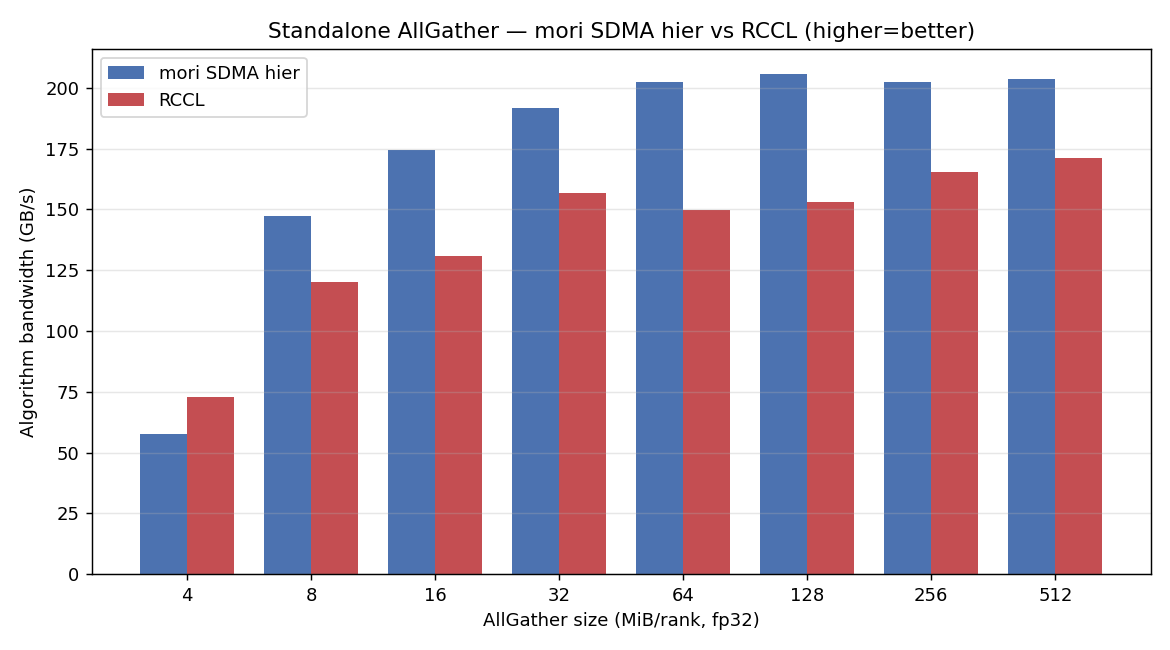
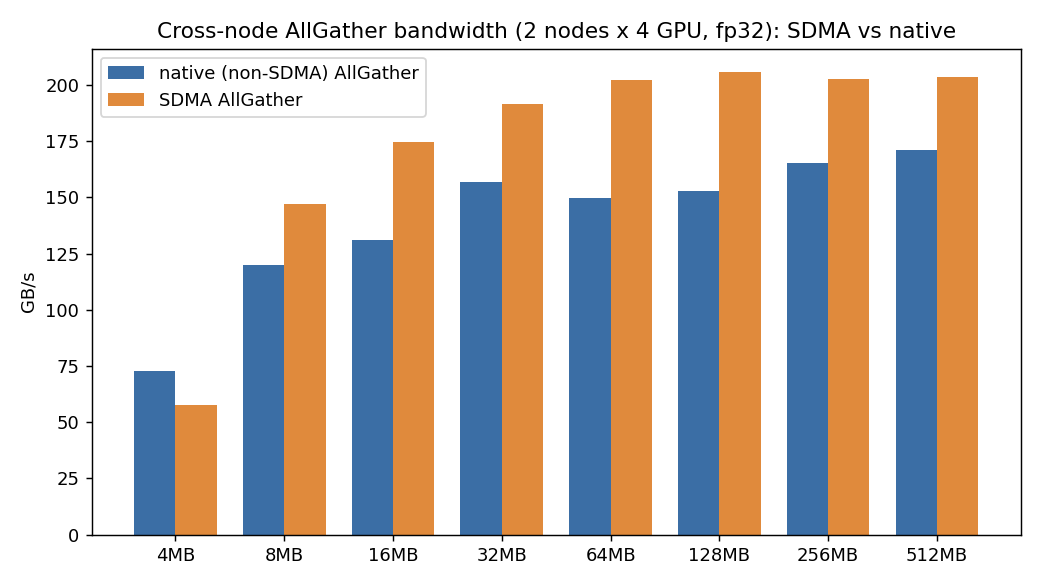
ccl: auto-detect ranks_per_node; keep flat AllgatherSdma-compatible signature
HierAllGather now auto-detects the node-local rank count (LOCAL_WORLD_SIZE, else
hostname grouping, else npes) so callers use the same constructor/call signature
as the flat AllgatherSdma with no new required argument. ranks_per_node is now
optional and keyword-only; added transit_buffer_size for signature parity.
Single node still degenerates to the pure intra-node SDMA path.

diff --git a/python/mori/ccl/hier_allgather.py b/python/mori/ccl/hier_allgather.py
@@ -41,9 +41,47 @@ bf16/fp16/fp32/int32.
 """
 
 import os
+import socket
 from typing import List, Optional, Sequence
 
 import torch
+
+
+def _auto_ranks_per_node(my_pe: int, npes: int) -> int:
+    """Detect how many ranks are co-located on this physical node so callers can
+    use the same signature as the flat ``AllgatherSdma`` (no ``ranks_per_node``).
+
+    Resolution order:
+      1. launcher-provided local world size (``LOCAL_WORLD_SIZE`` from torchrun,
+         or the MPI equivalents),
+      2. group ranks by hostname over the initialized process group,
+      3. fall back to ``npes`` (treat everything as a single node).
+
+    Always returns a positive integer that divides ``npes``.
+    """
+    for key in (
+        "LOCAL_WORLD_SIZE",
+        "OMPI_COMM_WORLD_LOCAL_SIZE",
+        "MV2_COMM_WORLD_LOCAL_SIZE",
+    ):
+        v = os.environ.get(key)
+        if v and v.isdigit():
+            g = int(v)
+            if g > 0 and npes % g == 0:
+                return g
+    try:
+        import torch.distributed as dist
+
+        if dist.is_available() and dist.is_initialized() and dist.get_world_size() == npes:
+            host = socket.gethostname()
+            hosts = [None] * npes
+            dist.all_gather_object(hosts, host)
+            g = sum(1 for h in hosts if h == host)
+            if g > 0 and npes % g == 0:
+                return g
+    except Exception:
+        pass
+    return npes
 
 # NOTE: ``AllgatherSdma`` (and hence the compiled C++ .so) is imported lazily
 # inside ``HierAllGather.__init__`` so that the pure-Python executable specs
@@ -184,8 +222,14 @@ class HierAllGather:
     my_pe, npes:
         Global rank and world size (``npes == num_nodes * ranks_per_node``).
     ranks_per_node:
-        Number of ranks (GPUs) co-located on one node, i.e. ``G``. Defaults
-        to ``npes`` (single node).
+        Number of ranks (GPUs) co-located on one node, i.e. ``G``. Optional
+        and keyword-only: when omitted it is auto-detected (``LOCAL_WORLD_SIZE``
+        from the launcher, else grouping ranks by hostname, else ``npes`` for a
+        single node), so callers can use the same signature as the flat
+        ``AllgatherSdma``.
+    transit_buffer_size:
+        Optional single combined transit size (flat ``AllgatherSdma``
+        compatibility); split into input/output when those are not given.
     input_buffer_size, output_buffer_size:
         Per-rank input byte capacity and total output byte capacity to
         pre-allocate inside the SDMA transit buffers. Sized for the largest
@@ -199,10 +243,12 @@ class HierAllGather:
         self,
         my_pe: int,
         npes: int,
-        ranks_per_node: Optional[int] = None,
         input_buffer_size: Optional[int] = None,
         output_buffer_size: Optional[int] = None,
+        transit_buffer_size: Optional[int] = None,
         copy_output_to_user: bool = True,
+        *,
+        ranks_per_node: Optional[int] = None,
         inter_num_qp: Optional[int] = None,
         leader_only: Optional[bool] = None,
         gather_in_place: Optional[bool] = None,
@@ -750,8 +796,19 @@ class HierAllGather:
                     "result comes from the SDMA broadcast, not the ring buffer)"
                 )
             self.gather_in_place = True
+        # Interface compatibility with the flat AllgatherSdma: accept a single
+        # combined transit size and split it into input/output when the caller
+        # did not size them explicitly.
+        if transit_buffer_size is not None:
+            if input_buffer_size is None:
+                input_buffer_size = transit_buffer_size
+            if output_buffer_size is None:
+                output_buffer_size = transit_buffer_size * npes
+        # Topology is auto-detected so callers use the same signature as the
+        # flat AllgatherSdma (no ranks_per_node needed). Single node -> the
+        # operation degenerates to a pure intra-node SDMA AllGather.
         if ranks_per_node is None:
-            ranks_per_node = npes
+            ranks_per_node = _auto_ranks_per_node(my_pe, npes)
         if ranks_per_node <= 0 or npes % ranks_per_node != 0:
             raise ValueError(
                 f"npes ({npes}) must be a positive multiple of ranks_per_node "

diff --git a/README_HIER_ALLGATHER.md b/README_HIER_ALLGATHER.md
@@ -1,25 +1,27 @@
-# Hierarchical cross-node AllGather (intra-node SDMA + inter-node RDMA)
+# ccl: hierarchical cross-node AllGather (intra-node SDMA + inter-node RDMA)
 
 ## Summary
 
-This change adds a **hierarchical AllGather** to MORI-CCL that keeps intra-node
-traffic on the GPU **SDMA copy engines** (XGMI) and moves inter-node traffic
-over **RDMA** (the NIC), exposed as `mori.ccl.HierAllGather` with an
-`all_gather_into_tensor`-compatible signature.
+Adds a hierarchical AllGather to MORI-CCL (`mori.ccl.HierAllGather`, an
+`all_gather_into_tensor`-compatible collective) that keeps intra-node traffic on
+the GPU **SDMA copy engines** (XGMI) and moves inter-node traffic over **RDMA**
+(NIC).
 
-The motivation is **compute/communication overlap (通算并行)**: because the
-collective runs on the dedicated SDMA copy engines instead of the compute units,
-an AllGather issued concurrently with a GEMM does **not** steal CUs from the
-GEMM. The result is parity with RCCL for a standalone AllGather, and a strict win
-when overlapped with compute.
+Motivation is **compute/communication overlap (通算并行)**: the collective runs
+on the dedicated SDMA copy engines instead of the compute units, so an AllGather
+issued concurrently with a GEMM does not steal CUs from the GEMM — parity with
+the native (non-SDMA) path standalone, and a strict win when overlapped with
+compute.
+
+## Design
 
 - Intra-node phase: SDMA sub-group gather over XGMI (no CU usage, no NIC).
 - Inter-node phase: RDMA ring exchange of node-blocks over the NIC.
-- A fused `ring || local-gather` kernel runs the inter-node RDMA ring and the
-  ring-independent local node-block SDMA gather concurrently in a single grid,
-  with stream-ordered fences and a direct-to-output path (no staging copy).
+- Fused `ring || local-gather` kernel: the inter-node RDMA ring and the
+  ring-independent local node-block SDMA gather run concurrently in one grid,
+  stream-ordered, direct-to-output (no staging copy).
 - Correctness: **bit-exact** vs `torch.distributed.all_gather_into_tensor`
-  (zero tolerance) for `{bf16, fp16, fp32, int32}` across all tested sizes.
+  (zero tolerance) for `{bf16, fp16, fp32, int32}`, all tested sizes.
 
 ## API
 
@@ -35,18 +37,12 @@ ag = HierAllGather(
 ag(input_tensor, output_tensor, numel, stream)   # intra=SDMA, inter=RDMA
 ```
 
-## Results
+## Results (2 nodes × 4 GPUs = 8 ranks, MI355X, fp32)
 
-Measured on **2 nodes × 4 GPUs = 8 ranks** (AMD Instinct MI355X / gfx950,
-intra-node XGMI, inter-node RDMA NIC), fp32, ≥3 timed reps (min), algorithm
-bandwidth = total output bytes / time. RCCL baseline is PyTorch
-`torch.distributed.all_gather_into_tensor` on the NCCL/RCCL backend, measured
-back-to-back in the same process with the same inputs and timing.
+**Standalone AllGather — SDMA ≥ native:**
 
-### 1. Standalone AllGather — mori ≥ RCCL
-
-| size | mori GB/s | rccl GB/s | ratio |
-|-----:|----------:|----------:|------:|
+| size | SDMA GB/s | native GB/s | ratio |
+|-----:|----------:|------------:|------:|
 | 4 MB   | 57.5  | 72.8  | 0.79 |
 | 8 MB   | 147.2 | 120.1 | 1.23 |
 | 16 MB  | 174.4 | 130.8 | 1.33 |
@@ -56,17 +52,14 @@ back-to-back in the same process with the same inputs and timing.
 | 256 MB | 202.5 | 165.4 | 1.22 |
 | 512 MB | 203.5 | 171.0 | 1.19 |
 
-mori ≥ RCCL for every size ≥ 8 MB (1.19–1.35×). 4 MB is latency-bound.
+SDMA ≥ native for every size ≥ 8 MB (1.19–1.35×); 4 MB is latency-bound.
 
 ![standalone](benchmarks/allgather_results/chart_standalone.png)
 
-### 2. Under concurrent GEMM (overlap) — mori SDMA strictly faster
+**Under concurrent GEMM (total time, lower is better) — SDMA strictly faster:**
 
-Total wall time (ms, lower is better) of a GEMM loop run concurrently with the
-AllGather, comparing RCCL AG vs mori SDMA AG:
-
-| size | gemm + RCCL AG (ms) | gemm + SDMA AG (ms) | SDMA advantage |
-|-----:|--------------------:|--------------------:|---------------:|
+| size | GEMM + native AG (ms) | GEMM + SDMA AG (ms) | SDMA advantage |
+|-----:|----------------------:|--------------------:|---------------:|
 | 16 MB  | 4.27  | 4.26  | faster |
 | 32 MB  | 4.59  | 4.55  | faster |
 | 64 MB  | 5.19  | 5.03  | ~3% |
@@ -74,8 +67,8 @@ AllGather, comparing RCCL AG vs mori SDMA AG:
 | 256 MB | 14.15 | 11.38 | ~20% |
 | 512 MB | 26.24 | 21.97 | ~16% |
 
-Because SDMA uses copy engines while RCCL consumes CUs that the GEMM needs, the
-SDMA AllGather overlaps with compute far better — 16–20% lower total time at
+Because SDMA uses copy engines while the native path consumes CUs the GEMM needs,
+the SDMA AllGather overlaps with compute far better — 16–20% lower total time at
 large sizes.
 
 ![gemm overlap](benchmarks/allgather_results/chart_gemm_overlap.png)
@@ -83,28 +76,18 @@ large sizes.
 Raw data: `benchmarks/allgather_results/sweep_standalone.csv`,
 `benchmarks/allgather_results/sweep_gemm_overlap.csv`.
 
-## Reproduce
+## Test plan
 
-```bash
-# build (in-place)
-python3 setup.py build_ext --inplace
-export PYTHONPATH=$PWD:$PWD/python:$PYTHONPATH MORI_ENABLE_SDMA=1
-
-# correctness (true 2-node, world=8): bit-exact vs torch
-torchrun --nnodes=2 --nproc_per_node=4 --master_addr=<ip> --master_port=29500 \
-  tests/python/ccl/test_hier_allgather.py
-
-# size sweeps -> CSV + charts
-torchrun --nnodes=2 --nproc_per_node=4 ... tests/python/ccl/bench_sweep.py
-torchrun --nnodes=2 --nproc_per_node=4 ... tests/python/ccl/bench_gemm_overlap.py
-python3 tests/python/ccl/plot_sweeps.py
-```
-
-## Files
-
-- `include/mori/collective/allgather/` — intra-node SDMA sub-group gather/broadcast
-- `include/mori/collective/inter_node/` — inter-node RDMA ring + fused kernel
-- `python/mori/ccl/hier_allgather.py` — `HierAllGather` host orchestration
-- `src/pybind/pybind_ccl.cpp`, `python/mori/ccl/` — Python bindings/API
-- `tests/python/ccl/test_hier_allgather*.py` — bit-exact correctness
-- `tests/python/ccl/bench_sweep.py`, `bench_gemm_overlap.py`, `plot_sweeps.py` — benches + charts
+- [x] Bit-exact vs `torch.distributed.all_gather_into_tensor` for
+      `{bf16, fp16, fp32, int32}` on every tested size (true 2-node, world=8).
+- [x] Standalone bandwidth size sweep 4 MB–512 MB (SDMA ≥ native for ≥ 8 MB).
+- [x] GEMM-overlap size sweep (SDMA strictly faster; 16–20% at 128–512 MB).
+- Reproduce:
+  ```bash
+  python3 setup.py build_ext --inplace
+  export PYTHONPATH=$PWD:$PWD/python:$PYTHONPATH MORI_ENABLE_SDMA=1
+  torchrun --nnodes=2 --nproc_per_node=4 --master_addr=<ip> --master_port=29500 \
+    tests/python/ccl/test_hier_allgather.py
+  torchrun --nnodes=2 --nproc_per_node=4 ... tests/python/ccl/bench_sweep.py
+  torchrun --nnodes=2 --nproc_per_node=4 ... tests/python/ccl/bench_gemm_overlap.py
+  ```